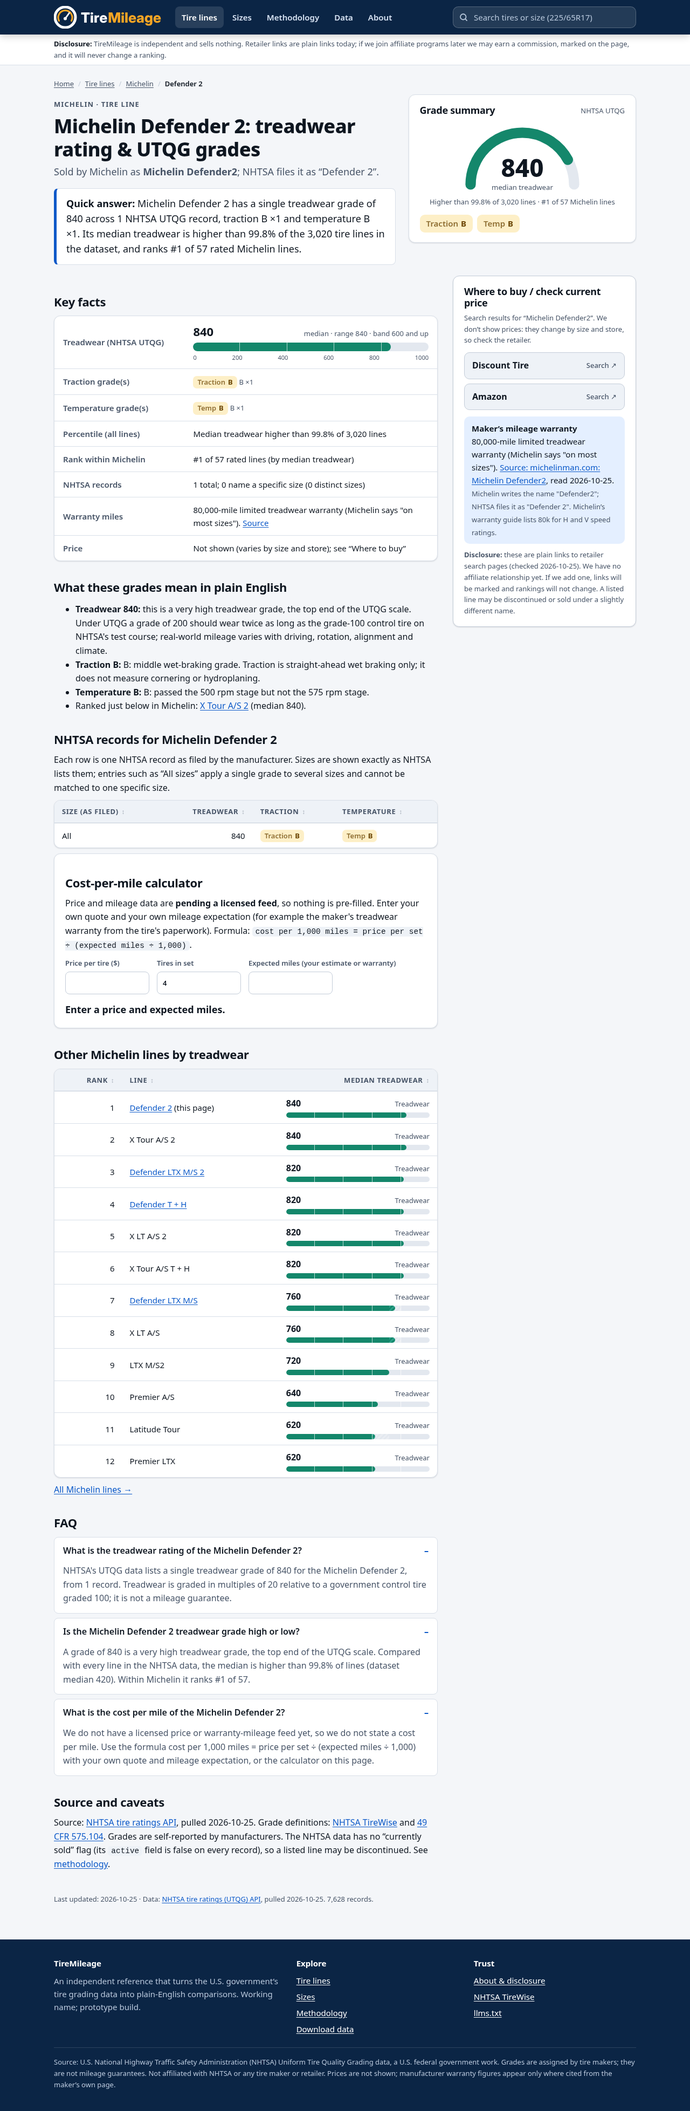
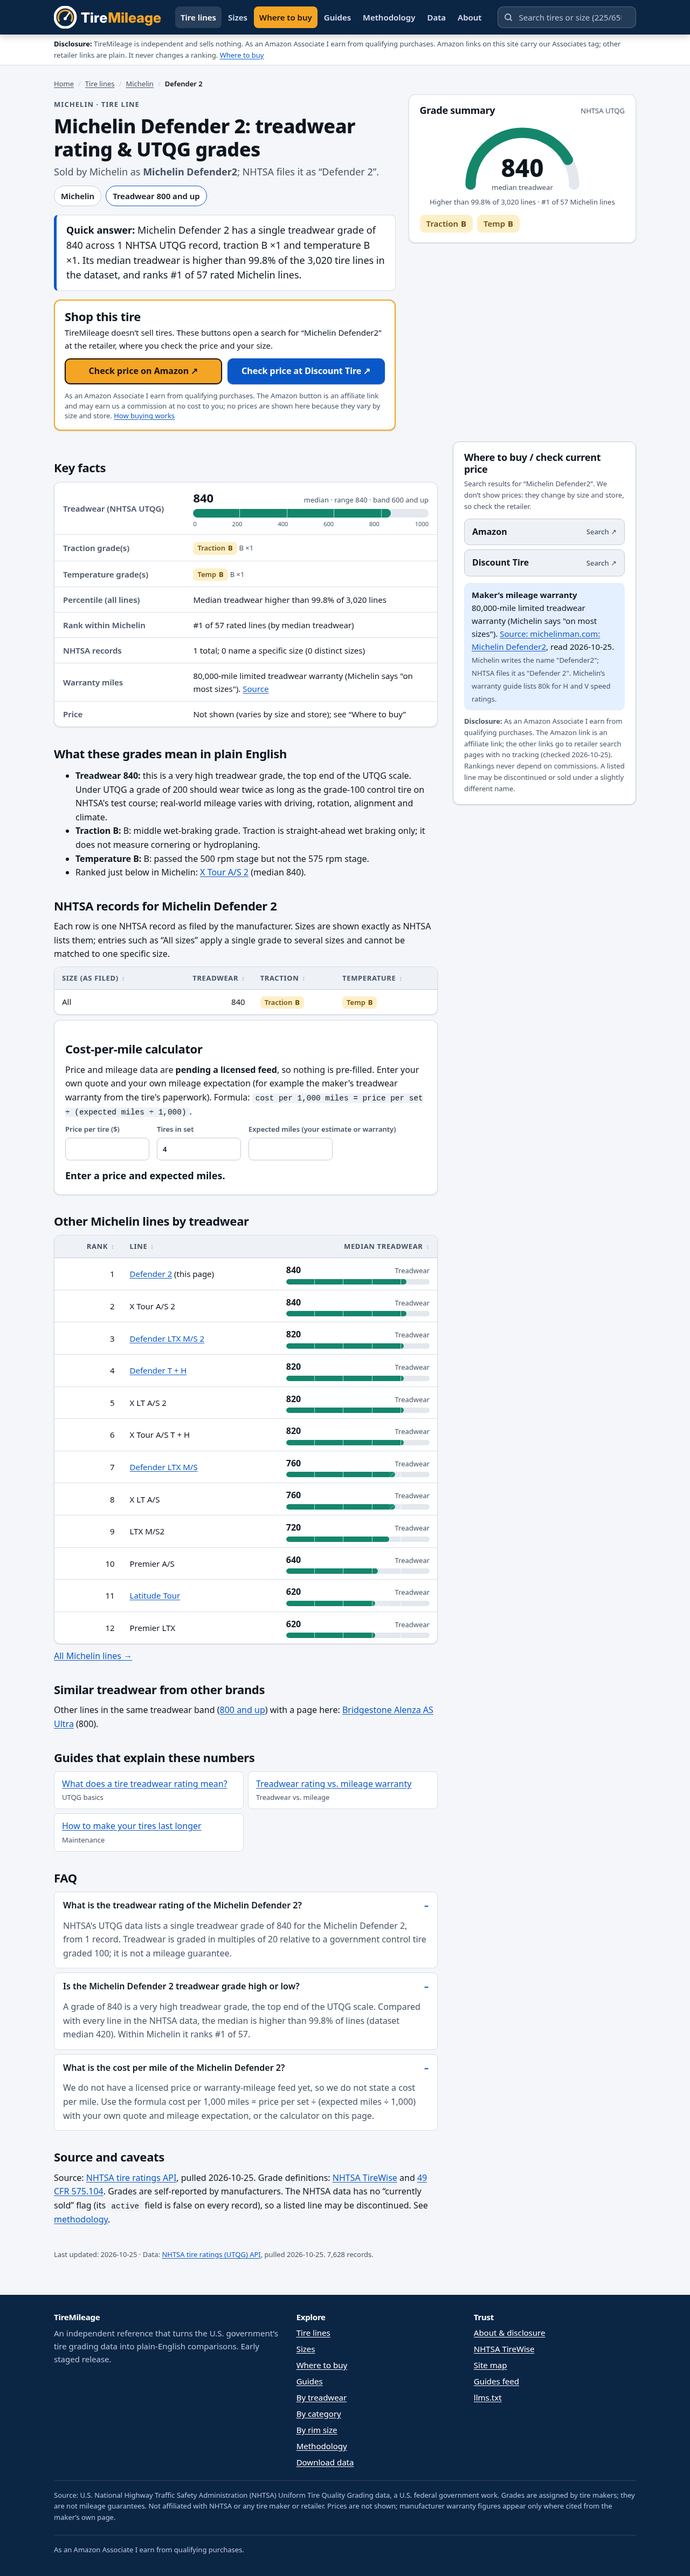
Buy-path UX: Shop this tire CTA above the fold + sticky mobile bar on line pages, Shop <size> block and per-row Shop buttons on size pages, home size flow + how-it-works, View & shop on cards/lists, /where-to-buy/ page and nav item; checks and screenshots updated

Changed region(s): [[0.0, 0.0, 1.0, 0.9977], [0.7812, 0.1247, 0.8125, 0.1559]]

diff --git a/src/styles/global.css b/src/styles/global.css
@@ -105,10 +105,13 @@ main{padding:20px 0 56px;min-height:60vh}
 .steps li::before{content:counter(s);display:inline-grid;place-items:center;width:28px;height:28px;border-radius:50%;background:var(--ac);color:var(--ac-fg);font-weight:800;margin-bottom:8px}
 
 /* tire cards */
-.tcard{display:flex;flex-direction:column;gap:10px;background:var(--surface);border:1px solid var(--bd);border-radius:var(--r);padding:16px 18px;text-decoration:none;color:inherit;box-shadow:var(--shadow);transition:border-color .15s,transform .15s}
+.tcard{position:relative;display:flex;flex-direction:column;gap:10px;background:var(--surface);border:1px solid var(--bd);border-radius:var(--r);padding:16px 18px;text-decoration:none;color:inherit;box-shadow:var(--shadow);transition:border-color .15s,transform .15s}
 .tcard:hover{border-color:var(--ac);transform:translateY(-2px)}
 .tcard .brand{font-size:var(--fs-0);text-transform:uppercase;letter-spacing:.07em;font-weight:700;color:var(--mut)}
-.tcard .name{font-size:var(--fs-3);font-weight:750;line-height:1.25;color:var(--fg)}
+.tcard .name{font-size:var(--fs-3);font-weight:750;line-height:1.25;color:var(--fg);text-decoration:none;display:block}
+.tcard .name::after{content:'';position:absolute;inset:0;border-radius:var(--r)}
+.tcard .name:focus-visible{outline:none}.tcard:has(.name:focus-visible){outline:3px solid var(--fg);outline-offset:2px}
+.tcard .sbtn-view{position:relative;z-index:1;align-self:flex-start}
 .tcard .row{display:flex;gap:6px;flex-wrap:wrap;align-items:center}
 .tcard .foot{margin-top:auto;font-size:var(--fs-0);color:var(--mut)}
 
@@ -225,3 +228,52 @@ ul.rel li span{font-size:var(--fs-0);color:var(--mut)}
 a.gcard{display:flex;flex-direction:column;gap:6px;background:var(--surface);border:1px solid var(--bd);border-radius:var(--r);padding:16px 18px;text-decoration:none;color:inherit;box-shadow:var(--shadow)}
 a.gcard:hover{border-color:var(--ac)}a.gcard b{font-size:var(--fs-3);line-height:1.25}a.gcard span{color:var(--mut);font-size:var(--fs-1)}a.gcard small{color:var(--mut);font-size:var(--fs-0)}
 .sitemap-h ul{columns:2;padding-left:18px}@media(max-width:600px){.sitemap-h ul{columns:1}}
+
+/* ---- buy path: Shop buttons (high contrast in light and dark; fixed sizes so nothing shifts) ---- */
+.sbtn{display:inline-flex;align-items:center;justify-content:center;gap:4px;min-height:48px;padding:10px 20px;border-radius:10px;border:2px solid transparent;font:inherit;font-size:var(--fs-2);font-weight:750;line-height:1.2;text-align:center;text-decoration:none;cursor:pointer;box-shadow:0 1px 2px rgba(0,0,0,.25)}
+.sbtn:hover{filter:brightness(1.08);text-decoration:none}
+.sbtn:focus-visible{outline:3px solid var(--fg);outline-offset:2px}
+.sbtn-amz{background:var(--hi);color:#1a1100;border-color:#1a1100}
+.sbtn-ac{background:var(--ac);color:var(--ac-fg);border-color:var(--ac)}
+.sbtn-sm{min-height:36px;padding:6px 12px;font-size:var(--fs-0);border-radius:8px;white-space:nowrap}
+.sbtn-view{min-height:44px}
+.shop-mini{display:inline-flex;gap:6px;flex-wrap:nowrap}
+.shop-cta{background:var(--surface);border:2px solid var(--hi);border-radius:var(--r);padding:16px 18px;margin:16px 0;box-shadow:var(--shadow)}
+.shop-cta h2{margin:0 0 4px;font-size:var(--fs-4)}
+.shop-sub{margin:0 0 12px;font-size:var(--fs-1);color:var(--fg)}
+.shop-btns{display:flex;flex-wrap:wrap;gap:10px}
+.shop-btns .sbtn{flex:1 1 220px}
+.shop-fine{margin:12px 0 0;font-size:var(--fs-0);color:var(--mut);line-height:1.45}
+.shop-fine a{color:var(--ac)}
+.nav a.nav-buy{background:var(--hi);color:#1a1100}
+.nav a.nav-buy:hover,.nav a.nav-buy[aria-current=page]{background:var(--hi);color:#1a1100;filter:brightness(1.08)}
+.flow-h{position:relative;margin:18px 0 0;font-size:var(--fs-4);color:#fff}
+.how-line{position:relative;margin:10px 0 12px;max-width:62ch;font-size:var(--fs-1);color:#e6eefa}
+.how-line a{color:#fff}
+.hero .lookup{margin-top:10px}
+.lookup-light{margin-top:8px}
+.lookup-light input{border-color:var(--bd2);background:var(--surface);color:var(--fg)}
+.lookup-msg-light{color:var(--fg)}.lookup-msg-light a{color:var(--ac)}
+.wtb-form{margin:16px 0}
+.wtb-form .chips{margin:10px 0}
+.brandgrid li{align-items:center}.brandgrid li .ln{flex:1 1 auto}.brandgrid li .meta{flex:0 0 auto}
+td .sbtn-sm{margin:2px 0}
+.shopbar{display:none}
+@media(max-width:760px){
+  .shopbar{display:block;position:fixed;left:0;right:0;bottom:0;z-index:50;background:var(--surface);border-top:2px solid var(--hi);box-shadow:0 -4px 16px rgba(0,0,0,.25);padding:8px 10px calc(8px + env(safe-area-inset-bottom))}
+  .shopbar-in{display:grid;grid-template-columns:1fr 1fr;gap:8px}
+  .shopbar .sbtn{min-height:48px;padding:6px 8px;font-size:var(--fs-0)}
+  .shopbar-fine{margin:4px 0 0;text-align:center;font-size:.6875rem;line-height:1.2;color:var(--mut)}
+  .shopbar-fine a{color:var(--ac)}
+  body:has(.shopbar){padding-bottom:104px}
+  .nav a.nav-buy{order:-1}
+  .shop-btns .sbtn{flex-basis:100%}
+}
+@media(max-width:999px){.cols-2 aside{order:0}}
+@media print{.shopbar{display:none!important}}
+
+.nav a{white-space:nowrap}
+@media(min-width:861px){.nav{gap:2px}.nav a{padding:8px 10px}.search{min-width:0;width:auto;flex:0 1 250px}}
+
+.sbtn{position:relative}
+.search{flex-basis:270px!important}

diff --git a/src/lib/retailers.ts b/src/lib/retailers.ts
@@ -20,7 +20,7 @@ export interface Retailer {
   name: string;
   enabled: boolean;
   verified: string; // how the pattern was verified (or why it was not)
-  search: (query: string) => string;
+  search: (query: string, opts?: { raw?: boolean }) => string; // raw: the query is already complete (don't append " tire")
 }
 
 const q = (s: string) => encodeURIComponent(s).replace(/%20/g, '+');
@@ -38,7 +38,7 @@ export const RETAILERS: Retailer[] = [
     name: 'Amazon',
     enabled: true,
     verified: 'curl 200 with server-rendered search results for several queries. Amazon sometimes returns 503 to automated clients; normal browsers are fine.',
-    search: (s) => `https://www.amazon.com/s?k=${q(`${s} tire`)}`,
+    search: (s, o) => `https://www.amazon.com/s?k=${q(o?.raw ? s : `${s} tire`)}`,
   },
   {
     id: 'tire-rack',
@@ -107,4 +107,16 @@ export function buildRetailerUrl(retailer: RetailerId, brand: string, line: stri
   return wrapAffiliate(retailer, r.search(retailerQuery(brand, line, key)));
 }
 
-export const enabledRetailers = () => RETAILERS.filter((r) => r.enabled);
+/** Size search link (e.g. Amazon k=225/65R17 tires; Discount Tire q=225/65R17). Same affiliate wrapper and rules as buildRetailerUrl. */
+export function buildSizeRetailerUrl(retailer: RetailerId, sizeLabel: string): string {
+  const r = RETAILERS.find((x) => x.id === retailer);
+  if (!r) throw new Error(`unknown retailer ${retailer}`);
+  const plain = retailer === 'amazon' ? r.search(`${sizeLabel} tires`, { raw: true }) : r.search(sizeLabel);
+  return wrapAffiliate(retailer, plain);
+}
+
+/** Button wording: "Check price on Amazon", "Check price at Discount Tire". */
+export const checkPriceLabel = (r: { id: RetailerId; name: string }) => `Check price ${r.id === 'amazon' ? 'on' : 'at'} ${r.name}`;
+
+// Amazon first, then the rest in list order (buttons read: Check price on Amazon, Check price at Discount Tire).
+export const enabledRetailers = () => RETAILERS.filter((r) => r.enabled).sort((a, b) => Number(b.id === 'amazon') - Number(a.id === 'amazon'));

diff --git a/src/pages/sitemap-[type].xml.ts b/src/pages/sitemap-[type].xml.ts
@@ -4,7 +4,7 @@ import { siteLines, siteSizes, siteBrands, UPDATED, lineUrl, sizeUrl } from '../
 export const getStaticPaths = () => ['pages', 'guides', 'tags', 'brands', 'tires', 'sizes'].map((type) => ({ params: { type } }));
 export const GET = ({ site, params }: { site: URL; params: { type: string } }) => {
   const paths: Record<string, string[]> = {
-    pages: ['/', '/tires/', '/sizes/', '/methodology/', '/about/', '/data/', '/sitemap/'],
+    pages: ['/', '/tires/', '/sizes/', '/where-to-buy/', '/methodology/', '/about/', '/data/', '/sitemap/'],
     guides: ['/guides/', ...GUIDES.map(guideUrl)],
     tags: ['/treadwear/', ...BANDS.map(bandUrl), '/type/', ...TYPES.map(typeUrl), '/rim/', ...RIMS.map(rimUrl)],
     brands: siteBrands.map((b) => `/tires/${b.slug}/`),

diff --git a/src/pages/llms.txt.ts b/src/pages/llms.txt.ts
@@ -12,6 +12,7 @@ export const GET = ({ site }: { site: URL }) => {
 - [Dataset downloads](${u('/data/')}): CSV/JSON of normalized NHTSA records
 - [Tire lines by brand](${u('/tires/')})
 - [Guides](${u('/guides/')}) ([Atom feed](${u('/guides/feed.xml')})); [HTML site map](${u('/sitemap/')})
+- [Where to buy](${u('/where-to-buy/')}): TireMileage does not sell tires; it links to Amazon and Discount Tire search results (affiliate disclosure, fitment and DOT-date checks)
 - [Sizes ranked by treadwear](${u('/sizes/')})
 
 ## Guides (each cites its sources and shows a last-updated date)

diff --git a/scripts/screenshots.py b/scripts/screenshots.py
@@ -4,7 +4,7 @@ import subprocess, time, sys, os, socket
 from playwright.sync_api import sync_playwright
 ROOT=os.path.dirname(os.path.dirname(os.path.abspath(__file__)))
 os.makedirs(f'{ROOT}/screenshots',exist_ok=True)
-PAGES=[('home','/'),('line-michelin-defender-2','/tires/michelin/defender-2/'),('line-continental-procontact-tx','/tires/continental/procontact-tx/'),('size-225-65r17','/sizes/225-65r17/'),('brand-michelin','/tires/michelin/')]
+PAGES=[('home','/'),('line-michelin-defender-2','/tires/michelin/defender-2/'),('line-continental-procontact-tx','/tires/continental/procontact-tx/'),('size-225-65r17','/sizes/225-65r17/'),('brand-michelin','/tires/michelin/'),('where-to-buy','/where-to-buy/')]
 _s=socket.socket(); _s.bind(('127.0.0.1',0)); PORT=_s.getsockname()[1]; _s.close()
 srv=subprocess.Popen([sys.executable,'-m','http.server',str(PORT),'-d',f'{ROOT}/dist','--bind','127.0.0.1'],stdout=subprocess.DEVNULL,stderr=subprocess.DEVNULL)
 time.sleep(1)
@@ -14,9 +14,10 @@ try:
     for tag,vp,scheme in [('desktop',{'width':1280,'height':800},'light'),('mobile',{'width':390,'height':844},'light'),('desktop-dark',{'width':1280,'height':800},'dark')]:
       ctx=b.new_context(viewport=vp,color_scheme=scheme,device_scale_factor=1 if tag!='mobile' else 2,is_mobile=tag=='mobile')
       for name,path in PAGES:
-        if tag=='desktop-dark' and name not in ('home','line-michelin-defender-2'): continue
+        if tag=='desktop-dark' and name not in ('home','line-michelin-defender-2','size-225-65r17'): continue
         pg=ctx.new_page(); pg.goto(f'http://127.0.0.1:{PORT}'+path,wait_until='networkidle'); pg.wait_for_timeout(300); assert 'TireMileage' in pg.content(), path
-        pg.screenshot(path=f'{ROOT}/screenshots/{name}-{tag}.png',full_page=True); pg.close()
+        pg.screenshot(path=f'{ROOT}/screenshots/{name}-{tag}.png',full_page=True)
+        pg.evaluate('window.scrollTo(0,0)'); pg.screenshot(path=f'{ROOT}/screenshots/{name}-fold-{tag}.png',full_page=False); pg.close()
       ctx.close()
     b.close()
 finally:
